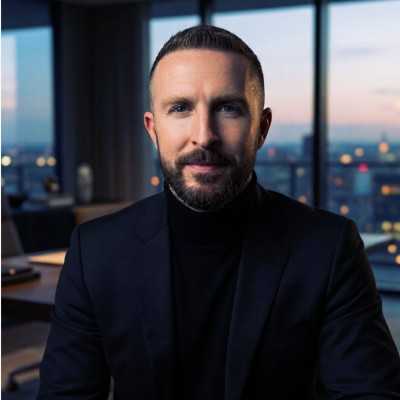
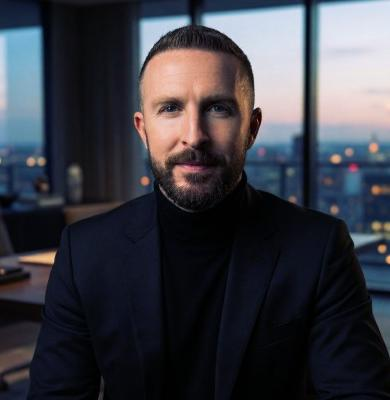
Checkpoint: Remove grayscale effect from Brian's portrait, add hover zoom effect, and crop image to remove white line

diff --git a/client/src/pages/Office.tsx b/client/src/pages/Office.tsx
@@ -71,7 +71,7 @@ export default function Office() {
                     loading="lazy"
                     width={600}
                     height={800}
-                    className="w-full h-full object-cover grayscale group-hover:grayscale-0 transition-all duration-700"
+                    className="w-full h-full object-cover transition-transform duration-700 group-hover:scale-105"
                   />
                   <div className="absolute bottom-8 left-8 z-20">
                     <h2 className="text-3xl font-serif font-bold text-white mb-1">Brian D. Evans</h2>

diff --git a/client/src/pages/Home.tsx b/client/src/pages/Home.tsx
@@ -118,7 +118,7 @@ export default function Home() {
                 loading="lazy"
                 width={600}
                 height={800}
-                className="w-full h-full object-cover object-top grayscale"
+                className="w-full h-full object-cover object-top transition-transform duration-700 hover:scale-105"
               />
             </div>
             <div>
